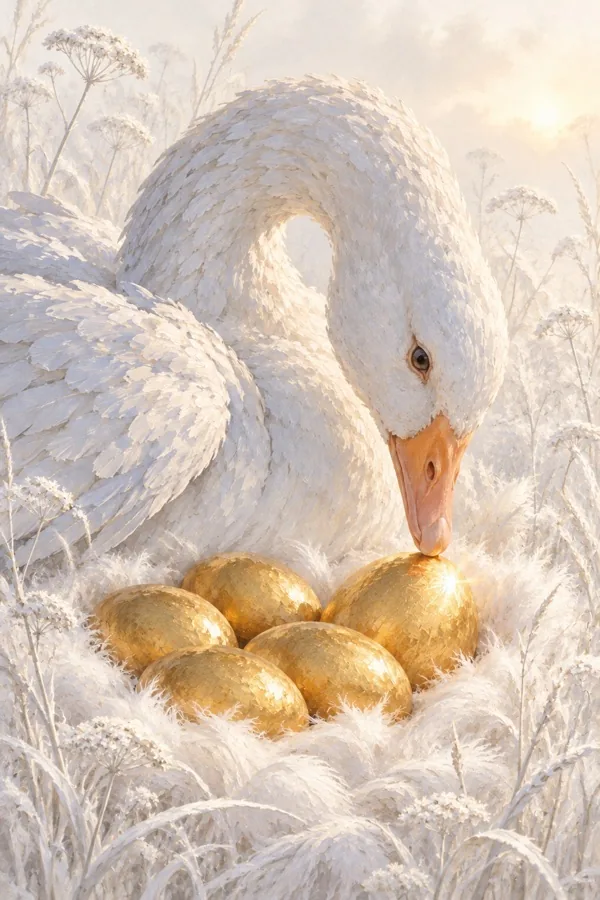
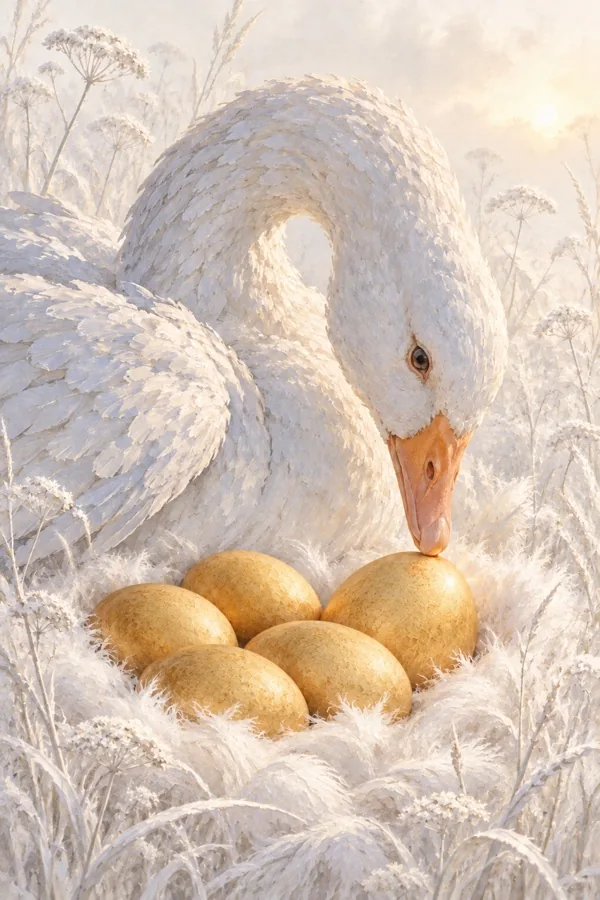
Art: Aurum's eggs repainted naturally golden (go7_aur_e1); the Golden Egg token, one of them (go7_egg_e1), with its crops
Claude-Session: https://claude.ai/code/session_019jJJv4nHqif5i2GC3cobRF

Changed region(s): [[0.18, 0.5911, 0.78, 0.8089], [0.75, 0.7156, 0.81, 0.7467], [0.15, 0.6844, 0.18, 0.7156]]

diff --git a/animal_kingdom/web/static/art.js b/animal_kingdom/web/static/art.js
@@ -1,6 +1,7 @@
 // Card art: /static/art/<id>.webp (placeholder paintings from the design sandbox, cards/; web/art_webp.sh makes the WebP from the JPEG).
 // CROP places a card's round board portrait: centre x, centre y, diameter, as fractions of the art's width, height, width.
 export const CROP = {
+  golden_egg: [.5, .53, 1],
   mole: [.45, .38, .7],
   wolf_legend: [.6, .3, .6],
   octopus: [.68, .48, .7],
@@ -155,6 +156,7 @@ export const CROP = {
 // STRIP places the art in a thin strip (the Collection's deck tile and deck list): the point (x, y as fractions of the art)
 // that lands on the strip's focus, and a zoom over the strip's own width.
 export const STRIP = {
+  golden_egg: [.5, .5, 1.1],
   mole: [.48, .32, 1.2],
   wolf_legend: [.6, .3, 1.2],
   octopus: [.7, .45, 1.2],
@@ -302,6 +304,7 @@ export const STRIP = {
 // where it fits, otherwise its head near the top with a little room and the legs cut. A card without an entry centres on its
 // board portrait (CROP), which Martin preferred for a few (Eagle, Ember, Hippopotamus, ...).
 export const FULL = {
+  golden_egg: .5,
   mole: .4,
   wolf_legend: .406,
   octopus: .45,
